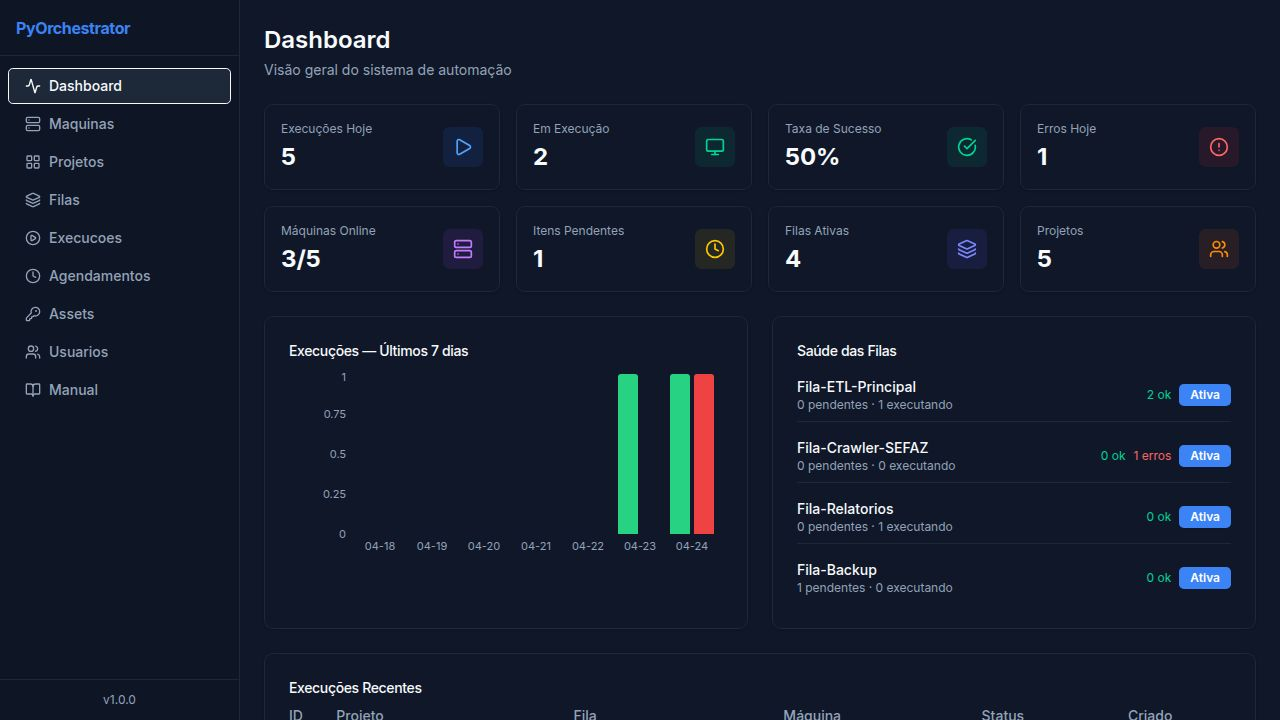
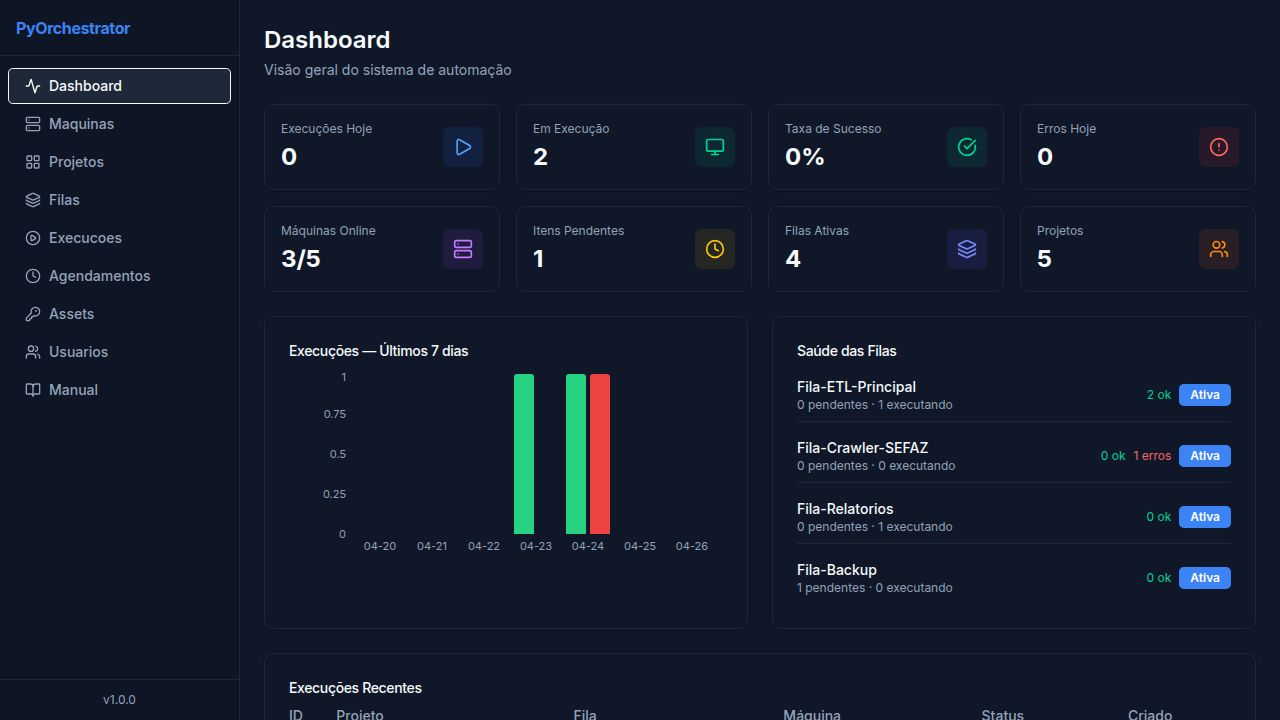
Enhance machine security and connection details for agents
Implement robust security measures by validating agent tokens and restricting access to sensitive machine information, while also providing a user-friendly interface for agent connection details.

Replit-Commit-Author: Agent
Replit-Commit-Session-Id: b045873f-44d1-42f5-b7a4-86630a2ba5ec
Replit-Commit-Checkpoint-Type: full_checkpoint
Replit-Commit-Event-Id: c461a2c0-1125-4878-833e-9c9f888135e2
Replit-Commit-Screenshot-Url: https://storage.googleapis.com/screenshot-production-us-central1/4c8b95ac-8c33-478b-8b74-c802eb812859/b045873f-44d1-42f5-b7a4-86630a2ba5ec/BltOvQX
Replit-Helium-Checkpoint-Created: true

diff --git a/artifacts/orchestrator/src/components/machines/connection-dialog.tsx b/artifacts/orchestrator/src/components/machines/connection-dialog.tsx
@@ -1,0 +1,152 @@
+import { useState } from "react";
+import { useGetMachine } from "@workspace/api-client-react";
+import { Dialog, DialogContent, DialogHeader, DialogTitle, DialogDescription } from "@/components/ui/dialog";
+import { Button } from "@/components/ui/button";
+import { Skeleton } from "@/components/ui/skeleton";
+import { Copy, Check, Download, Terminal, KeyRound, Server } from "lucide-react";
+
+function CopyField({ value, testid }: { value: string; testid: string }) {
+  const [copied, setCopied] = useState(false);
+  function copy() {
+    navigator.clipboard.writeText(value);
+    setCopied(true);
+    setTimeout(() => setCopied(false), 1500);
+  }
+  return (
+    <div className="flex items-center gap-2 bg-muted/40 border border-border rounded px-3 py-2 font-mono text-xs">
+      <span className="flex-1 truncate" data-testid={testid}>{value}</span>
+      <Button variant="ghost" size="icon" className="h-6 w-6 shrink-0" onClick={copy} data-testid={`${testid}-copy`}>
+        {copied ? <Check className="h-3 w-3 text-emerald-400" /> : <Copy className="h-3 w-3" />}
+      </Button>
+    </div>
+  );
+}
+
+function CodeBlock({ code, testid }: { code: string; testid: string }) {
+  const [copied, setCopied] = useState(false);
+  function copy() {
+    navigator.clipboard.writeText(code);
+    setCopied(true);
+    setTimeout(() => setCopied(false), 1500);
+  }
+  return (
+    <div className="relative">
+      <pre className="bg-zinc-950 border border-border rounded-md p-3 text-xs font-mono text-emerald-300 overflow-x-auto whitespace-pre" data-testid={testid}>
+        {code}
+      </pre>
+      <Button variant="ghost" size="icon" className="absolute top-2 right-2 h-6 w-6" onClick={copy} data-testid={`${testid}-copy`}>
+        {copied ? <Check className="h-3 w-3 text-emerald-400" /> : <Copy className="h-3 w-3" />}
+      </Button>
+    </div>
+  );
+}
+
+interface Props {
+  machineId: number | null;
+  open: boolean;
+  onOpenChange: (v: boolean) => void;
+}
+
+export function MachineConnectionDialog({ machineId, open, onOpenChange }: Props) {
+  const { data: machine, isLoading } = useGetMachine(machineId ?? 0, {
+    query: { enabled: open && machineId != null },
+  });
+
+  const orchUrl = `${window.location.protocol}//${window.location.host}`;
+  const downloadUrl = `${orchUrl}/api/agent/download`;
+  const installCmd = `pip install requests pyyaml psutil`;
+  const downloadCmd = `curl -O ${downloadUrl}`;
+
+  const runCmd = machine
+    ? `python pyorchestrator-agent.py \\
+  --orchestrator ${orchUrl} \\
+  --token ${machine.agentToken} \\
+  --machine "${machine.name}"`
+    : "";
+  const envCmd = machine
+    ? `export ORCH_URL=${orchUrl}
+export ORCH_TOKEN=${machine.agentToken}
+export ORCH_MACHINE="${machine.name}"
+python pyorchestrator-agent.py`
+    : "";
+
+  return (
+    <Dialog open={open} onOpenChange={onOpenChange}>
+      <DialogContent className="max-w-2xl max-h-[90vh] overflow-y-auto" data-testid="machine-connection-dialog">
+        <DialogHeader>
+          <DialogTitle className="flex items-center gap-2">
+            <Server className="h-5 w-5" />
+            Conexão do agente {machine ? `— ${machine.name}` : ""}
+          </DialogTitle>
+          <DialogDescription>
+            Use as credenciais e comandos abaixo para conectar o cliente agente nesta máquina ao orquestrador.
+          </DialogDescription>
+        </DialogHeader>
+
+        {isLoading || !machine ? (
+          <div className="space-y-3 pt-2">
+            <Skeleton className="h-10 w-full" />
+            <Skeleton className="h-10 w-full" />
+            <Skeleton className="h-32 w-full" />
+          </div>
+        ) : (
+          <div className="space-y-5 pt-2">
+            <section className="space-y-3">
+              <h3 className="text-sm font-semibold text-foreground flex items-center gap-2">
+                <KeyRound className="h-4 w-4" />Credenciais de conexão
+              </h3>
+              <div className="space-y-2">
+                <div>
+                  <p className="text-xs text-muted-foreground mb-1">URL do orquestrador</p>
+                  <CopyField value={orchUrl} testid="conn-orch-url" />
+                </div>
+                <div>
+                  <p className="text-xs text-muted-foreground mb-1">Nome da máquina (--machine)</p>
+                  <CopyField value={machine.name} testid="conn-machine-name" />
+                </div>
+                <div>
+                  <p className="text-xs text-muted-foreground mb-1">Token do agente (--token)</p>
+                  <CopyField value={machine.agentToken} testid="conn-agent-token" />
+                </div>
+              </div>
+            </section>
+
+            <section className="space-y-3">
+              <h3 className="text-sm font-semibold text-foreground flex items-center gap-2">
+                <Terminal className="h-4 w-4" />1. Instalar dependências (Python 3.9+)
+              </h3>
+              <CodeBlock code={installCmd} testid="conn-install-cmd" />
+            </section>
+
+            <section className="space-y-3">
+              <h3 className="text-sm font-semibold text-foreground flex items-center gap-2">
+                <Download className="h-4 w-4" />2. Baixar o cliente agente
+              </h3>
+              <CodeBlock code={downloadCmd} testid="conn-download-cmd" />
+              <p className="text-xs text-muted-foreground">
+                Ou clique para baixar:{" "}
+                <a href={downloadUrl} className="text-primary hover:underline" data-testid="conn-download-link">
+                  pyorchestrator-agent.py
+                </a>
+              </p>
+            </section>
+
+            <section className="space-y-3">
+              <h3 className="text-sm font-semibold text-foreground flex items-center gap-2">
+                <Terminal className="h-4 w-4" />3. Executar o agente
+              </h3>
+              <CodeBlock code={runCmd} testid="conn-run-cmd" />
+              <p className="text-xs text-muted-foreground">Alternativa via variáveis de ambiente:</p>
+              <CodeBlock code={envCmd} testid="conn-env-cmd" />
+            </section>
+
+            <div className="rounded-md border border-amber-500/30 bg-amber-500/10 p-3 text-xs text-amber-200">
+              <strong className="block mb-1">⚠ Guarde o token com segurança</strong>
+              Esse token autentica esta máquina específica. Não compartilhe — se vazar, exclua a máquina e cadastre novamente para gerar um novo.
+            </div>
+          </div>
+        )}
+      </DialogContent>
+    </Dialog>
+  );
+}

diff --git a/artifacts/api-server/src/routes/agent.ts b/artifacts/api-server/src/routes/agent.ts
@@ -127,15 +127,30 @@ router.get("/agent/template", (_req, res): void => {
 
 // ─── RUNTIME ENDPOINTS USED BY agent.py ──────────────────────────────────
 
+function extractBearer(req: any): string | null {
+  const h = req.headers["authorization"] || req.headers["Authorization"];
+  if (!h || typeof h !== "string") return null;
+  const match = h.match(/^Bearer\s+(.+)$/i);
+  return match ? match[1].trim() : null;
+}
+
+async function authenticateAgent(machineName: string, token: string | null) {
+  if (!token) return null;
+  const [m] = await db.select().from(machinesTable).where(eq(machinesTable.name, machineName));
+  if (!m) return null;
+  if (m.agentToken !== token) return null;
+  return m;
+}
+
 router.post("/agent/heartbeat", async (req, res): Promise<void> => {
   const { machine, cpuPercent, memoryPercent } = req.body ?? {};
   if (!machine || typeof machine !== "string") {
     res.status(400).json({ error: "machine name required" });
     return;
   }
-  const [m] = await db.select().from(machinesTable).where(eq(machinesTable.name, machine));
+  const m = await authenticateAgent(machine, extractBearer(req));
   if (!m) {
-    res.status(404).json({ error: "machine not registered" });
+    res.status(401).json({ error: "invalid agent token" });
     return;
   }
   await db.update(machinesTable).set({
@@ -153,9 +168,9 @@ router.get("/agent/next-execution", async (req, res): Promise<void> => {
     res.status(400).json({ error: "machine query required" });
     return;
   }
-  const [m] = await db.select().from(machinesTable).where(eq(machinesTable.name, machine));
+  const m = await authenticateAgent(machine, extractBearer(req));
   if (!m) {
-    res.status(404).json({ error: "machine not registered" });
+    res.status(401).json({ error: "invalid agent token" });
     return;
   }
   const candidates = await db
@@ -187,6 +202,16 @@ router.get("/agent/next-execution", async (req, res): Promise<void> => {
 });
 
 router.post("/agent/assets", async (req, res): Promise<void> => {
+  const machineName = String(req.headers["x-agent-machine"] ?? "");
+  if (!machineName) {
+    res.status(400).json({ error: "missing X-Agent-Machine header" });
+    return;
+  }
+  const m = await authenticateAgent(machineName, extractBearer(req));
+  if (!m) {
+    res.status(401).json({ error: "invalid agent token" });
+    return;
+  }
   const names = Array.isArray(req.body?.names) ? req.body.names.filter((n: any) => typeof n === "string") : [];
   if (names.length === 0) {
     res.json({});

diff --git a/artifacts/orchestrator/src/pages/machines.tsx b/artifacts/orchestrator/src/pages/machines.tsx
@@ -1,5 +1,5 @@
 import { useState } from "react";
-import { useListMachines, useCreateMachine, useToggleMachineMaintenance, useDeleteMachine, getListMachinesQueryKey } from "@workspace/api-client-react";
+import { useListMachines, useCreateMachine, useToggleMachineMaintenance, useDeleteMachine, getListMachinesQueryKey, getGetMachineQueryKey } from "@workspace/api-client-react";
 import { useQueryClient } from "@tanstack/react-query";
 import { Card, CardContent, CardHeader, CardTitle } from "@/components/ui/card";
 import { Badge } from "@/components/ui/badge";
@@ -9,9 +9,10 @@ import { Dialog, DialogContent, DialogHeader, DialogTitle, DialogTrigger } from 
 import { Input } from "@/components/ui/input";
 import { Label } from "@/components/ui/label";
 import { Select, SelectContent, SelectItem, SelectTrigger, SelectValue } from "@/components/ui/select";
-import { Server, Plus, Wrench, Trash2, Wifi, WifiOff } from "lucide-react";
+import { Server, Plus, Wrench, Trash2, KeyRound } from "lucide-react";
 import { format } from "date-fns";
 import { useForm } from "react-hook-form";
+import { MachineConnectionDialog } from "@/components/machines/connection-dialog";
 
 function MachineStatusBadge({ status }: { status: string }) {
   const map: Record<string, { label: string; className: string }> = {
@@ -26,18 +27,24 @@ function MachineStatusBadge({ status }: { status: string }) {
 export default function MachinesPage() {
   const { data: machines, isLoading } = useListMachines();
   const [open, setOpen] = useState(false);
+  const [connectionMachineId, setConnectionMachineId] = useState<number | null>(null);
   const qc = useQueryClient();
   const createMachine = useCreateMachine();
   const toggleMaintenance = useToggleMachineMaintenance();
   const deleteMachine = useDeleteMachine();
-  const { register, handleSubmit, reset, setValue } = useForm<{ name: string; hostname: string; operatingSystem: string; category: string }>();
+  const { register, handleSubmit, reset, setValue } = useForm<{ name: string; hostname: string; operatingSystem: string; category: string }>({
+    defaultValues: { category: "backend" },
+  });
 
   function onSubmit(data: { name: string; hostname: string; operatingSystem: string; category: string }) {
     createMachine.mutate({ data }, {
-      onSuccess: () => {
+      onSuccess: (created) => {
         qc.invalidateQueries({ queryKey: getListMachinesQueryKey() });
         setOpen(false);
         reset();
+        // Seed the single-machine cache with the freshly returned token so the dialog renders instantly
+        qc.setQueryData(getGetMachineQueryKey(created.id), created);
+        setConnectionMachineId(created.id);
       }
     });
   }
@@ -134,7 +141,17 @@ export default function MachinesPage() {
                     Último heartbeat: {format(new Date(machine.lastHeartbeat), "dd/MM HH:mm:ss")}
                   </p>
                 )}
-                <div className="flex gap-2 pt-1">
+                <div className="flex gap-2 pt-1 flex-wrap">
+                  <Button
+                    size="sm"
+                    variant="outline"
+                    className="text-xs"
+                    onClick={() => setConnectionMachineId(machine.id)}
+                    data-testid={`button-connection-${machine.id}`}
+                  >
+                    <KeyRound className="h-3 w-3 mr-1" />
+                    Conexão
+                  </Button>
                   <Button
                     size="sm"
                     variant="outline"
@@ -166,6 +183,12 @@ export default function MachinesPage() {
           )}
         </div>
       )}
+
+      <MachineConnectionDialog
+        machineId={connectionMachineId}
+        open={connectionMachineId != null}
+        onOpenChange={(v) => !v && setConnectionMachineId(null)}
+      />
     </div>
   );
 }

diff --git a/artifacts/api-server/src/routes/machines.ts b/artifacts/api-server/src/routes/machines.ts
@@ -21,7 +21,9 @@ const router: IRouter = Router();
 
 router.get("/machines", async (req, res): Promise<void> => {
   const machines = await db.select().from(machinesTable).orderBy(machinesTable.name);
-  res.json(ListMachinesResponse.parse(serialize(machines)));
+  // Strip agentToken from listing — only exposed via single-machine fetch
+  const safe = machines.map(({ agentToken: _t, ...rest }) => rest);
+  res.json(ListMachinesResponse.parse(serialize(safe)));
 });
 
 router.post("/machines", async (req, res): Promise<void> => {

diff --git a/replit.md b/replit.md
@@ -70,3 +70,11 @@ artifacts/
 - Database seeded with 5 machines, 5 projects, 4 queues, 6 executions, 4 schedules, 5 users, 7+ assets
 - Agent zip extraction is hardened against Zip Slip (path traversal) — see `_safe_extract_zip` in `agent.py`
 - PATCH `/api/assets/:id` validates `type` ∈ `{credential, api_key, text}` to prevent mask bypass
+
+## Machine Connection Security
+
+- The OpenAPI spec splits machine schemas: `Machine` (no token, used by `GET /machines` listing) and `MachineWithToken` (used by `POST /machines` and `GET /machines/:id`)
+- The list endpoint strips `agentToken` server-side; the token is only exposed via single-machine fetch
+- The `Conexão` button on each machine card opens a dialog that fetches the machine by id (lazy, on-demand)
+- Right after creating a machine, the connection dialog auto-opens with the freshly returned token (cached via `qc.setQueryData(getGetMachineQueryKey(id), created)`)
+- All `/agent/*` runtime endpoints (`heartbeat`, `next-execution`, `assets`) require a valid `Authorization: Bearer <agentToken>` header that matches `machinesTable.agentToken` for the named machine — invalid/missing tokens return 401